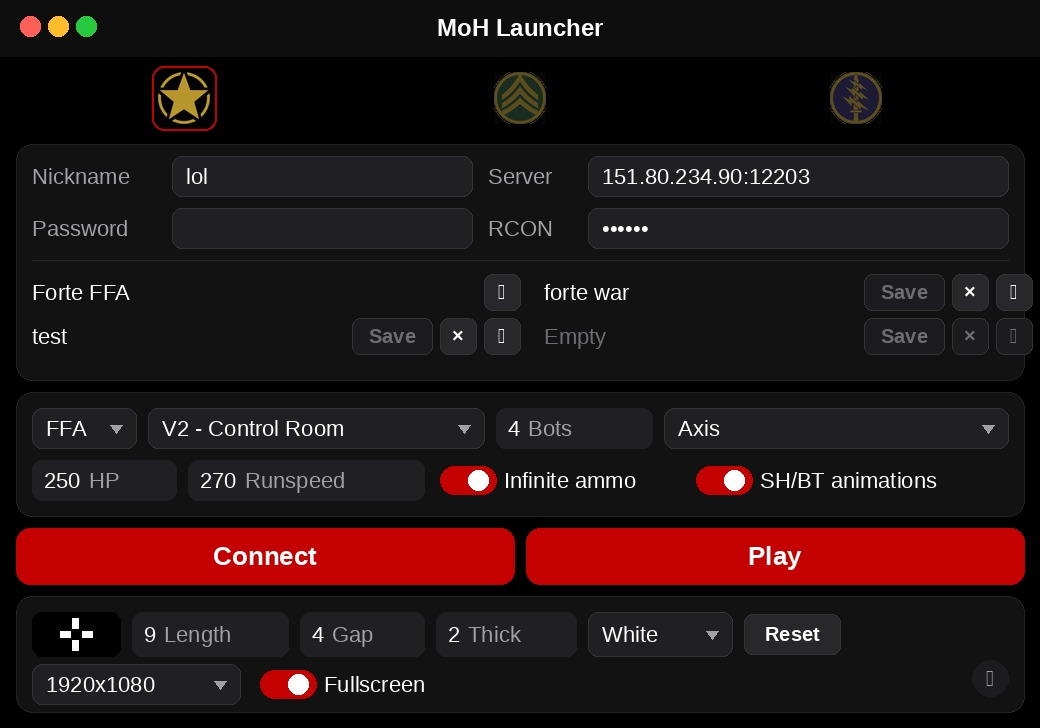
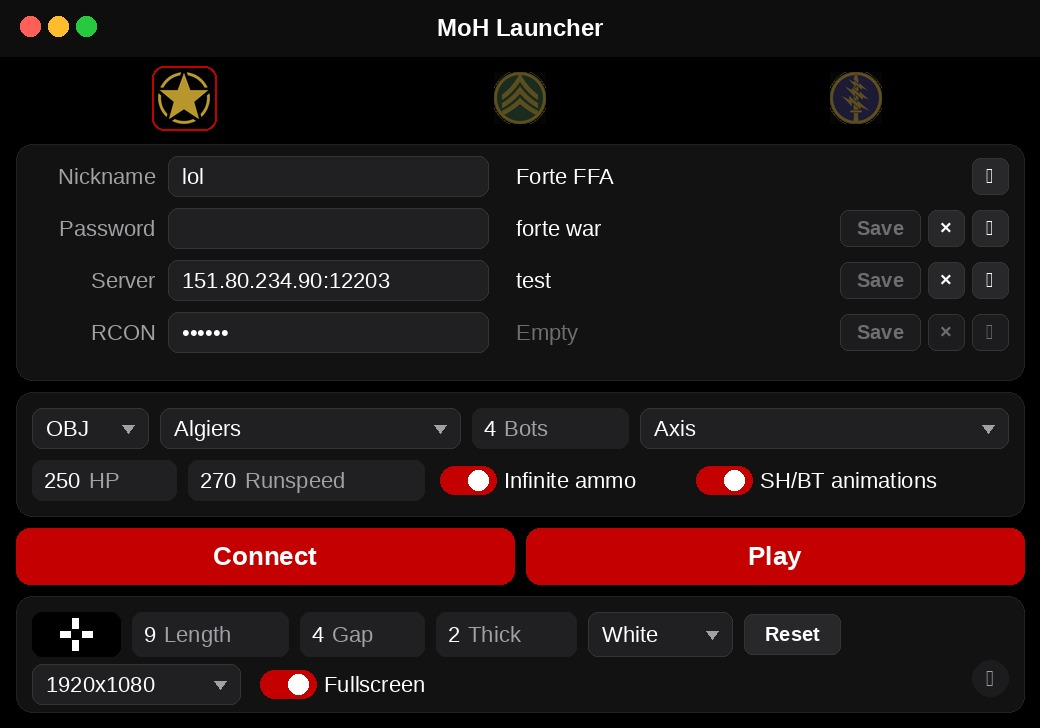
Put the shortcuts beside the server fields
Maps are listed alphabetically. Nickname, password, server and RCON sit
on the left, with the four shortcuts beside them. Objective is a game type.

diff --git a/Launcher.swift b/Launcher.swift
@@ -70,10 +70,14 @@ func mapName(_ path: String) -> String {
 }
 
 func maps(for game: Int) -> [String] {
+    let paths: [String]
     switch game {
-    case 0: return aaMaps
-    case 1: return shMaps + aaMaps
-    default: return btMaps + shMaps + aaMaps
+    case 0: paths = aaMaps
+    case 1: paths = shMaps + aaMaps
+    default: paths = btMaps + shMaps + aaMaps
+    }
+    return paths.sorted {
+        mapName($0).localizedCaseInsensitiveCompare(mapName($1)) == .orderedAscending
     }
 }
 
@@ -118,7 +122,7 @@ struct Config: Equatable {
     var password = ""
     var rcon = ""
     var shortcuts = [forte] + Array(repeating: Shortcut(), count: shortcutCount - 1)
-    var gametype = 1  // 1 free-for-all, 2 team match
+    var gametype = 1  // 1 free-for-all, 2 team match, 4 objective
     var map = aaMaps[0]
     var bots = 3
     var botTeam = "auto"
@@ -327,7 +331,9 @@ struct Config: Equatable {
             }
         }
         shortcuts[0] = forte
-        gametype = choice("bot_game_type", 1...2, gametype)
+        if let saved = Int(values["bot_game_type"] ?? ""), [1, 2, 4].contains(saved) {
+            gametype = saved
+        }
         map = values["bot_map"].flatMap { maps(for: game).contains($0) ? $0 : nil } ?? maps(for: game)[0]
         bots = number("bot_count", 1...maxBots, bots)
         botTeam = values["bot_team"].flatMap { botTeams.contains($0) ? $0 : nil } ?? botTeam
@@ -453,7 +459,6 @@ import SwiftUI
 /// Pure red. A 0K blue-light filter removes green and blue, so this is the
 /// only accent that stays visible, and it stays darker than white text.
 let accent = Color(red: 196 / 255, green: 0, blue: 0)
-let labelWidth: CGFloat = 76
 
 let folder = Bundle.main.bundleURL.deletingLastPathComponent()
 let settingsFile = folder.appendingPathComponent("launcher.cfg")
@@ -627,28 +632,30 @@ struct LauncherView: View {
     // MARK: Cards
 
     @ViewBuilder private var serverRows: some View {
-        HStack(spacing: 6) {
-            Text("Nickname").foregroundStyle(.secondary).frame(width: labelWidth, alignment: .trailing)
-            TextField("", text: $config.name).textFieldStyle(.roundedBorder)
-            Text("Server").foregroundStyle(.secondary)
-            TextField("address:port", text: $config.address).textFieldStyle(.roundedBorder)
-        }
-        HStack(spacing: 6) {
-            Text("Password").foregroundStyle(.secondary).frame(width: labelWidth, alignment: .trailing)
-            SecureField("", text: $config.password).textFieldStyle(.roundedBorder)
-            Text("RCON").foregroundStyle(.secondary)
-            SecureField("", text: $config.rcon).textFieldStyle(.roundedBorder)
-        }
-        Divider()
-        Grid(horizontalSpacing: 12, verticalSpacing: 2) {
+        Grid(horizontalSpacing: 12, verticalSpacing: 6) {
             GridRow {
+                serverField("Nickname") { TextField("", text: $config.name) }
                 shortcutRow(0)
+            }
+            GridRow {
+                serverField("Password") { SecureField("", text: $config.password) }
                 shortcutRow(1)
             }
             GridRow {
+                serverField("Server") { TextField("address:port", text: $config.address) }
                 shortcutRow(2)
+            }
+            GridRow {
+                serverField("RCON") { SecureField("", text: $config.rcon) }
                 shortcutRow(3)
             }
+        }
+    }
+
+    private func serverField<Field: View>(_ label: String, @ViewBuilder field: () -> Field) -> some View {
+        HStack(spacing: 6) {
+            Text(label).foregroundStyle(.secondary).frame(width: 72, alignment: .trailing)
+            field().textFieldStyle(.roundedBorder)
         }
     }
 
@@ -696,10 +703,11 @@ struct LauncherView: View {
             Picker("", selection: $config.gametype) {
                 Text("FFA").tag(1)
                 Text("TDM").tag(2)
+                Text("OBJ").tag(4)
             }
             .labelsHidden()
             .fixedSize()
-            .help("Free-for-all or team deathmatch")
+            .help("Free-for-all, team deathmatch, or objective")
             Picker("", selection: $config.map) {
                 ForEach(maps(for: config.game), id: \.self) { path in
                     Text(mapName(path)).tag(path)

diff --git a/README.md b/README.md
@@ -2,7 +2,7 @@
 
 MoH Launcher for MoHAA. The window is black, with red controls.
 
-![Launcher](preview.jpg?v=12)
+![Launcher](preview.jpg?v=13)
 
 Connect opens `openmohaa.app`. Play opens `mohbots.app`. The first shortcut is Forte FFA and cannot be changed.
 
